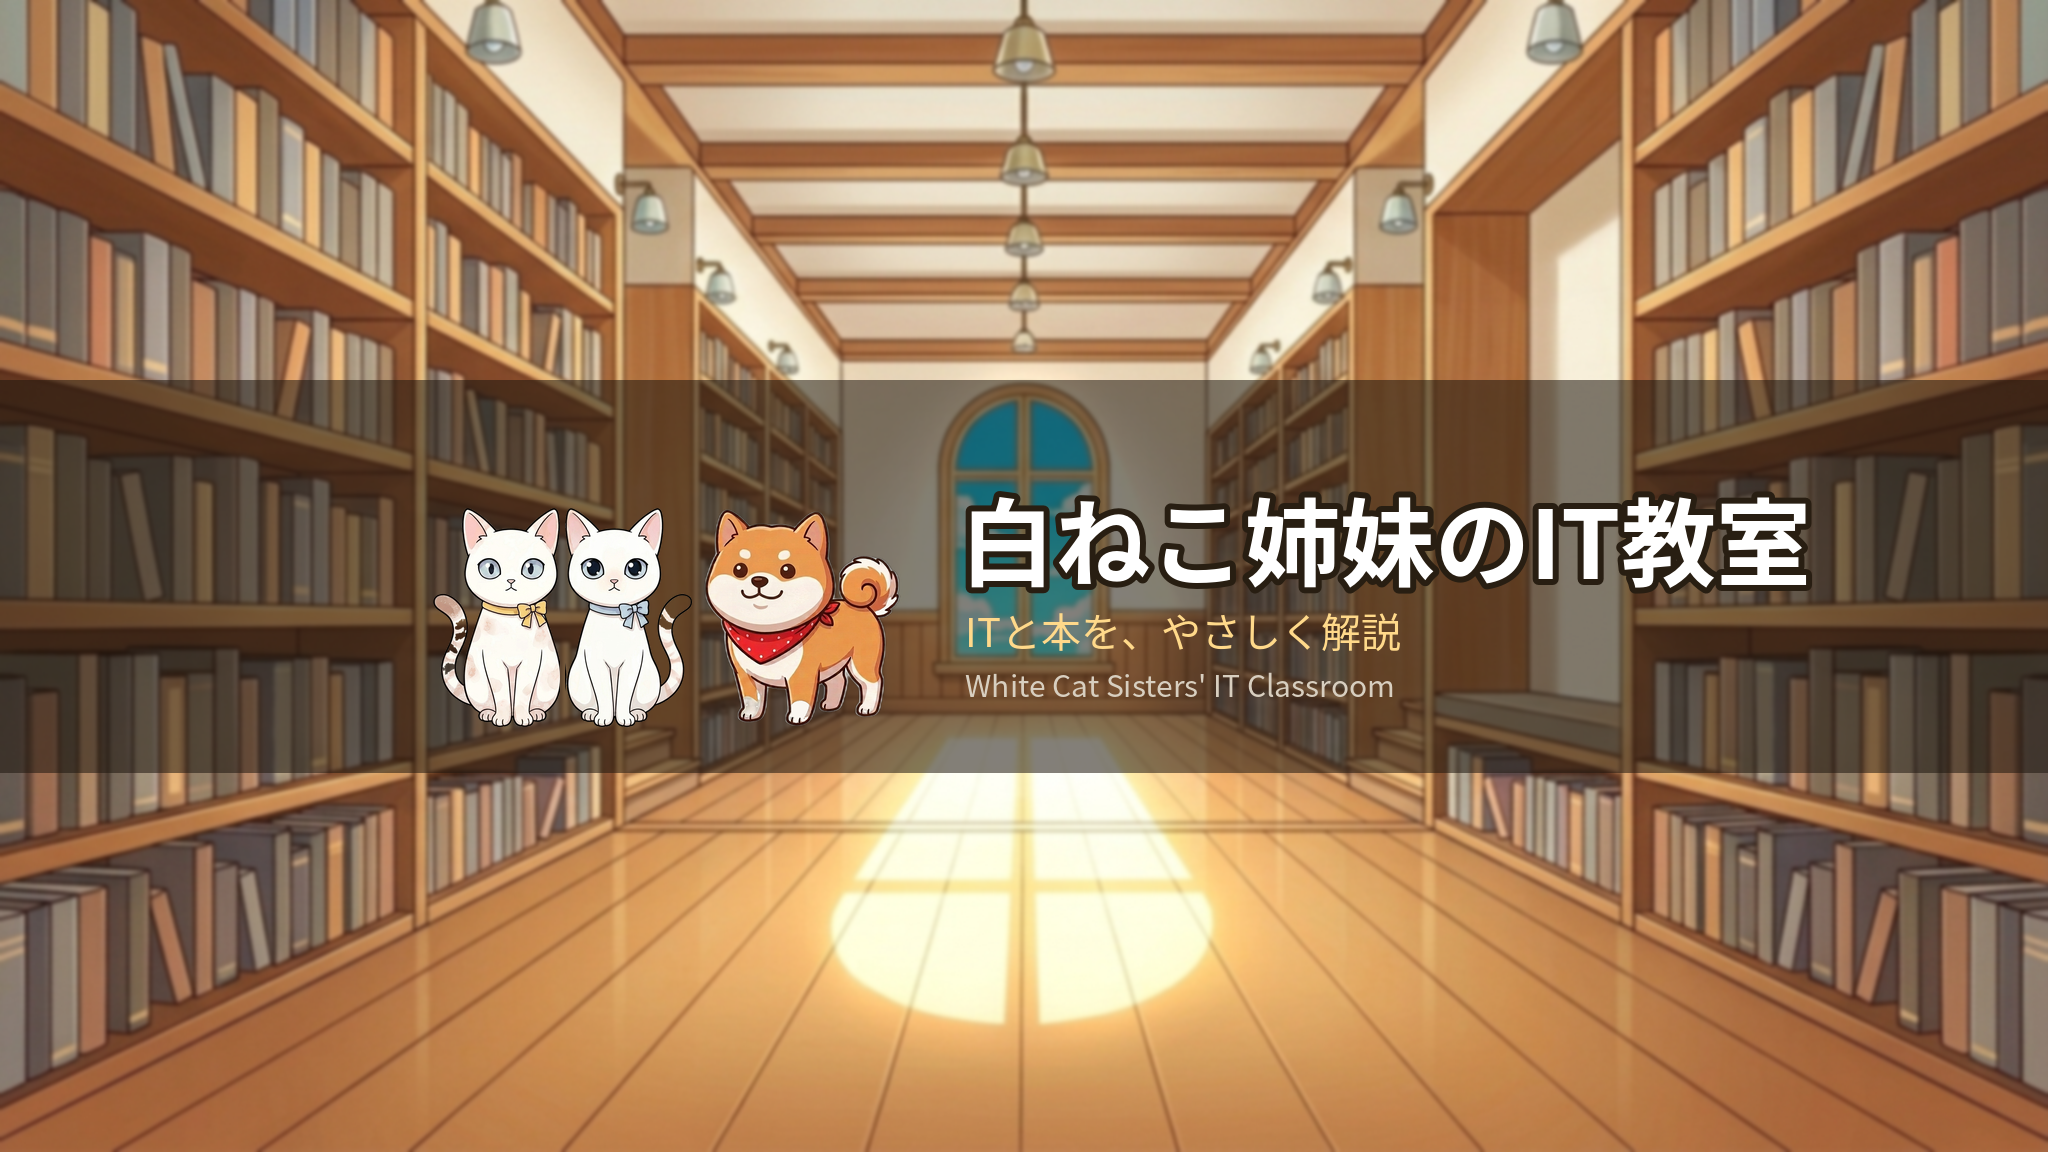
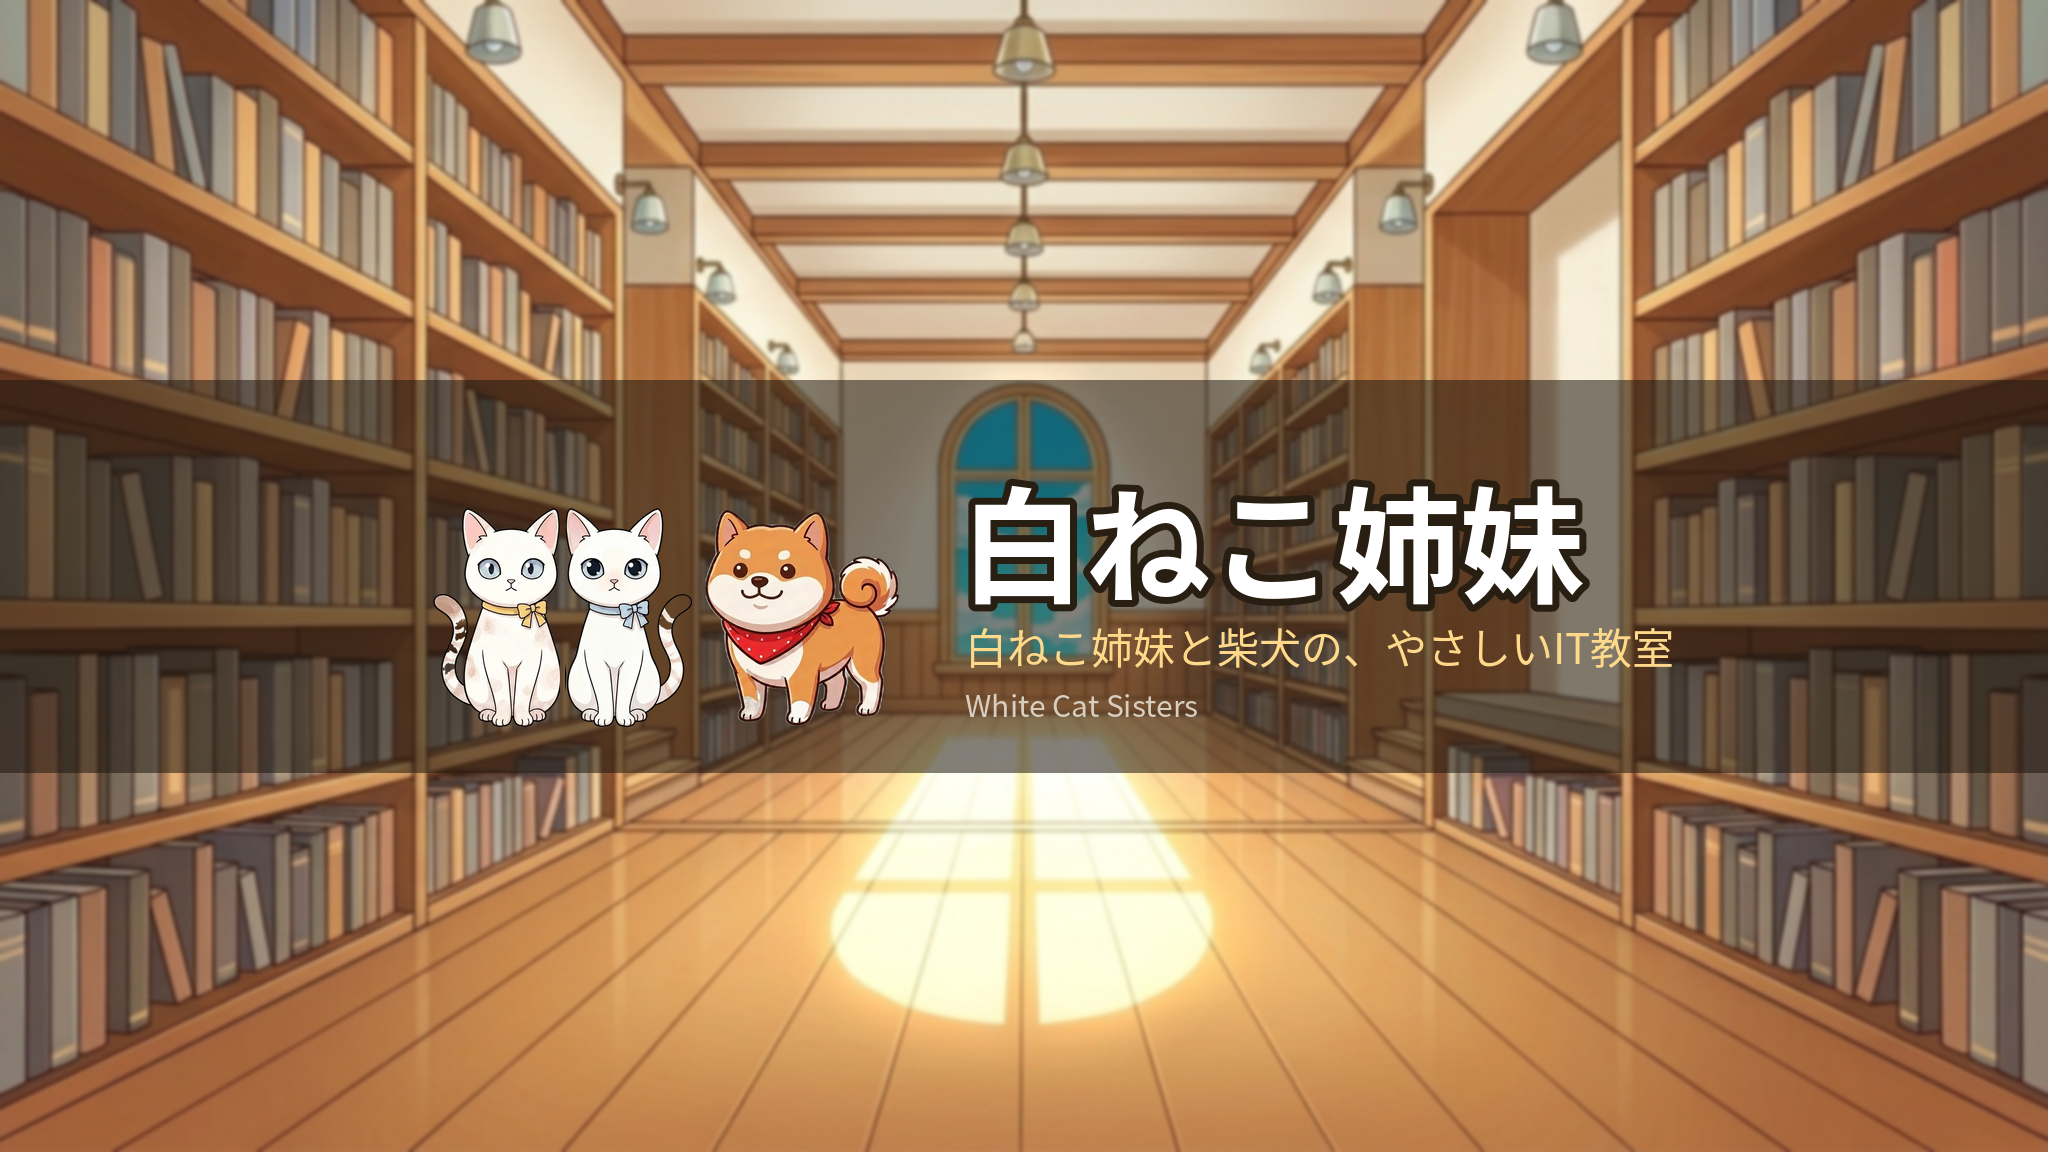
lab/channel: D案確定版に更新（バナー最終版差し替え）

Changed region(s): [[0.4688, 0.4062, 0.9062, 0.625]]

diff --git a/lab/channel/index.html b/lab/channel/index.html
@@ -14,7 +14,7 @@
 </style>
 </head>
 <body>
-<h2>白ねこ姉妹のIT教室: チャンネル開設素材</h2>
+<h2>白ねこ姉妹: チャンネル開設素材（D案確定版）</h2>
 <p>手順は penguin-lane の docs/launch-runbook.md。メタデータは content/meta/V001_meta.md</p>
 <h3>チャンネル名の比較（バナー実寸感）</h3>
 <p>A=現行 / B=短縮 / C=姉妹を残してITを色でなじませる案</p>
@@ -24,7 +24,7 @@
 <img src="banner_D_shimai_only.png" style="width:860px"><p>D: 白ねこ姉妹（チャンネル=キャラブランド、番組はシリーズ名で運用）</p>
 <h3>アイコン（円形表示プレビュー）</h3>
 <img class="round" src="icon_800.png">
-<h3>バナー（2048x1152、中央帯がスマホ表示範囲）</h3>
+<h3>バナー最終版=D案（2048x1152、中央帯がスマホ表示範囲）</h3>
 <img src="banner_2048x1152.png">
 <h3>V001サムネイル（1280x720）</h3>
 <img src="V001.png" style="width:820px">
